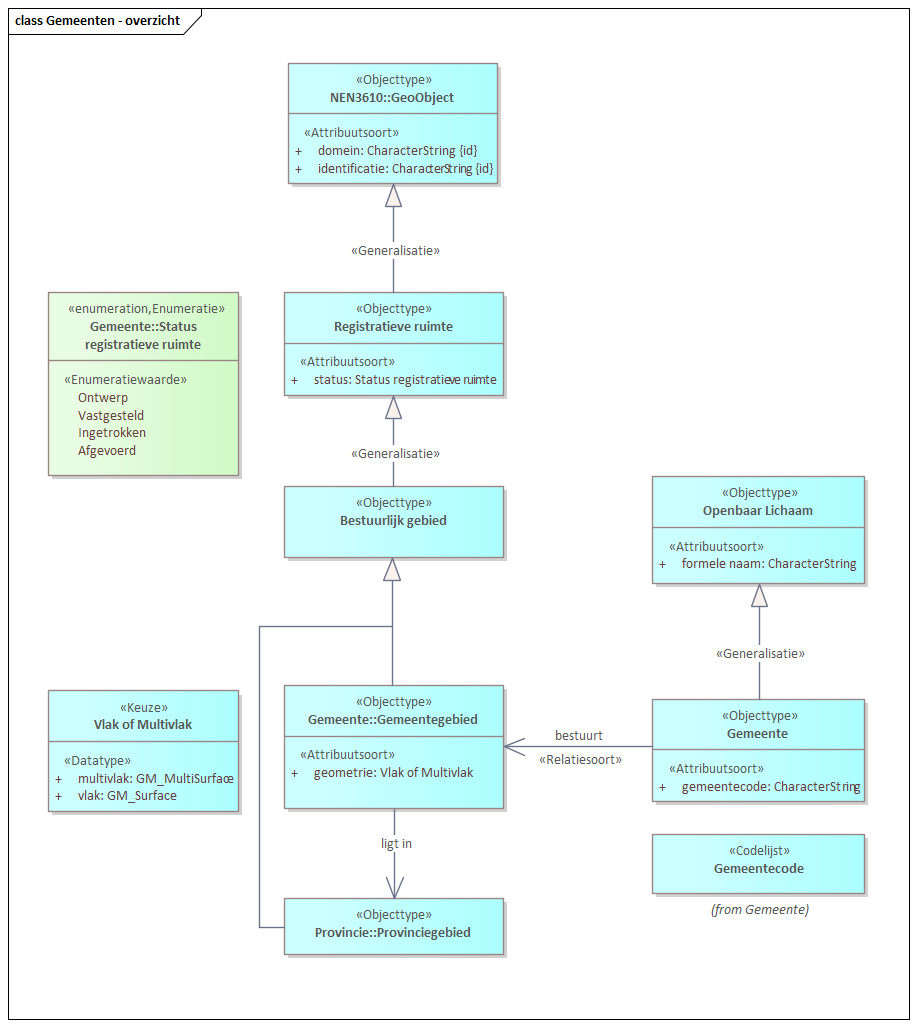
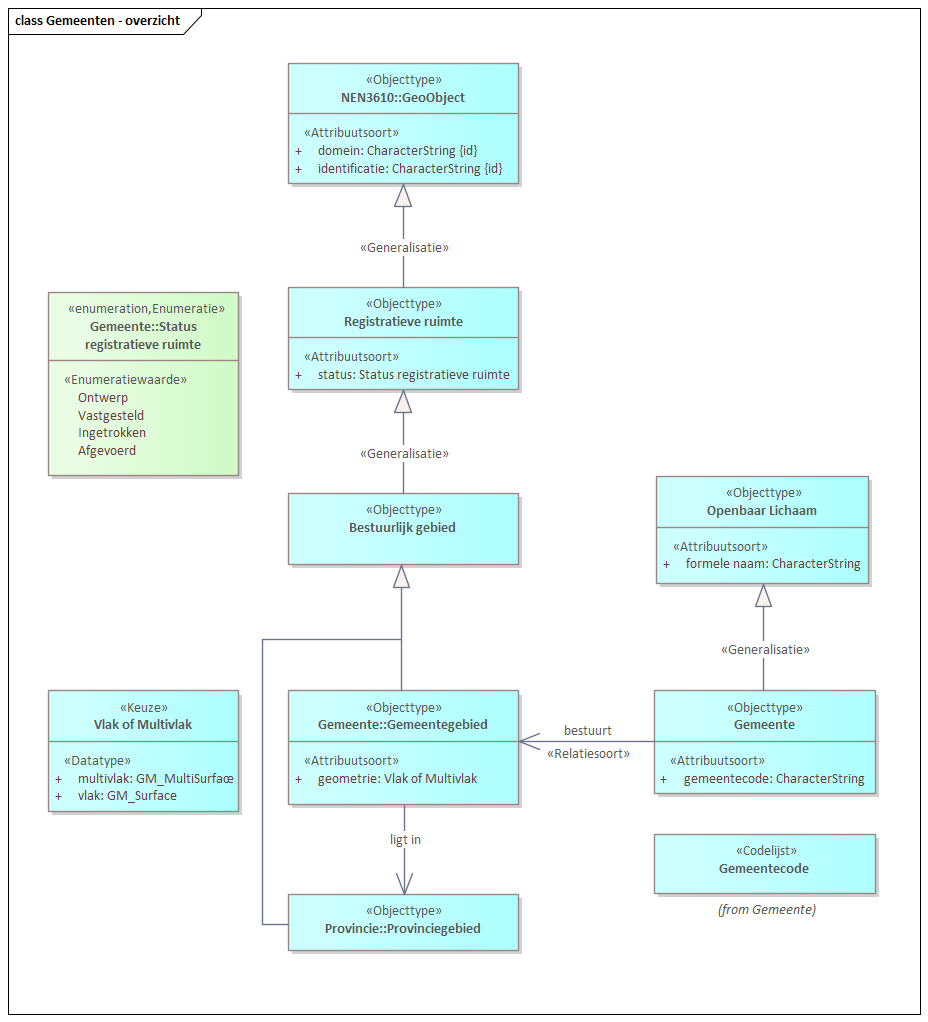
MIMCM-IMSOR-CM-1.0.0-0-20210512-20220330-150509

diff --git a/data/IMSOR-CM-cat.respec.html b/data/IMSOR-CM-cat.respec.html
@@ -1,7 +1,7 @@
 
 <!DOCTYPE HTML><section id="cat" class="normative">
    <h2>Gegevensdefinitie</h2>
-   <!--MIMCM-IMSOR-CM-1.0.0-0-20210512-20220330-144323 imvertor 1.65.4--><a class="anchor" id="global_package_NEN3610"></a><section id="global_package_NEN3610">
+   <!--MIMCM-IMSOR-CM-1.0.0-0-20210512-20220330-150509 imvertor 1.65.4--><a class="anchor" id="global_package_NEN3610"></a><section id="global_package_NEN3610">
       <h3>Domein   NEN3610</h3>
       <section id="">
          <h4>Objecttypen   </h4>
@@ -1253,7 +1253,7 @@
       <h3>Domein   Bestuurlijke Gebieden</h3>
       <section id="EAID_1ADC0868_BDA7_4793_9671_6EAD9ECD8B08">
          <h4>   Gemeenten - overzicht</h4>
-         <div class="imageinfo overview"><img src="../data/Images/EAID_1ADC0868_BDA7_4793_9671_6EAD9ECD8B08.png" usemap="#imagemap-EAID_1ADC0868_BDA7_4793_9671_6EAD9ECD8B08" alt="Diagram &#xA;                        &#xA;                     "><map name="imagemap-EAID_1ADC0868_BDA7_4793_9671_6EAD9ECD8B08"><area shape="rect" alt="GeoObject" coords="288,63,498,184" href="#graph_EAID_5F28982A_92F2_4338_97FC_9C1AA451286E"><area shape="rect" alt="Vlak of Multivlak" coords="48,690,239,812" href="#graph_EAID_CB47144F_F944_4037_8ECB_EA023608F3FD"><area shape="rect" alt="Gemeente" coords="652,699,865,802" href="#graph_EAID_834A86E2_38DD_46e9_8A3B_75EB0C312F6E"><area shape="rect" alt="Openbaar Lichaam" coords="652,476,865,584" href="#graph_EAID_C60CE19D_EF1D_4c45_BD31_D4E19145AAA8"><area shape="rect" alt="Registratieve ruimte" coords="284,292,504,396" href="#graph_EAID_F4EA655E_C546_437f_9846_89189D849130"><area shape="rect" alt="Status registratieve ruimte" coords="48,292,239,476" href="#graph_EAID_4C474734_5C1D_4344_8776_29ACD288EEB8"><area shape="rect" alt="Provinciegebied" coords="284,898,504,955" href="#graph_EAID_3C488FE1_753E_40b8_9C2F_2E521B28DC18"><area shape="rect" alt="Gemeentecode" coords="652,834,865,894" href="#graph_EAID_B145E3D6_1735_49a4_A9DF_4901299925E2"><area shape="rect" alt="Gemeentegebied" coords="284,685,504,809" href="#graph_EAID_80F9B049_91FE_4978_B5B1_FDCE5AD8F0A9"><area shape="rect" alt="Bestuurlijk gebied" coords="284,486,504,558" href="#graph_EAID_CE4A19B0_E8ED_4517_A5F2_DACF596D2421"></map><p><b>Gemeenten - overzicht</b></p>
+         <div class="imageinfo overview"><img src="data/Images/EAID_1ADC0868_BDA7_4793_9671_6EAD9ECD8B08.png" usemap="#imagemap-EAID_1ADC0868_BDA7_4793_9671_6EAD9ECD8B08" alt="Diagram &#xA;                        &#xA;                     "><map name="imagemap-EAID_1ADC0868_BDA7_4793_9671_6EAD9ECD8B08"><area shape="rect" alt="GeoObject" coords="288,63,519,184" href="#graph_EAID_5F28982A_92F2_4338_97FC_9C1AA451286E"><area shape="rect" alt="Vlak of Multivlak" coords="48,690,239,812" href="#graph_EAID_CB47144F_F944_4037_8ECB_EA023608F3FD"><area shape="rect" alt="Gemeente" coords="654,690,876,794" href="#graph_EAID_834A86E2_38DD_46e9_8A3B_75EB0C312F6E"><area shape="rect" alt="Openbaar Lichaam" coords="656,476,869,584" href="#graph_EAID_C60CE19D_EF1D_4c45_BD31_D4E19145AAA8"><area shape="rect" alt="Registratieve ruimte" coords="288,287,519,390" href="#graph_EAID_F4EA655E_C546_437f_9846_89189D849130"><area shape="rect" alt="Status registratieve ruimte" coords="48,292,239,476" href="#graph_EAID_4C474734_5C1D_4344_8776_29ACD288EEB8"><area shape="rect" alt="Provinciegebied" coords="288,894,519,951" href="#graph_EAID_3C488FE1_753E_40b8_9C2F_2E521B28DC18"><area shape="rect" alt="Gemeentecode" coords="654,834,876,894" href="#graph_EAID_B145E3D6_1735_49a4_A9DF_4901299925E2"><area shape="rect" alt="Gemeentegebied" coords="288,690,519,805" href="#graph_EAID_80F9B049_91FE_4978_B5B1_FDCE5AD8F0A9"><area shape="rect" alt="Bestuurlijk gebied" coords="288,493,519,565" href="#graph_EAID_CE4A19B0_E8ED_4517_A5F2_DACF596D2421"></map><p><b>Gemeenten - overzicht</b></p>
          </div>
       </section>
       <section id="">
@@ -2102,7 +2102,7 @@
 </section>
 <section id="lis" class="normative">
    <h2>Inhoud van waardenlijsten</h2>
-   <!--MIMCM-IMSOR-CM-1.0.0-0-20210512-20220330-144323 imvertor 1.65.4-->
+   <!--MIMCM-IMSOR-CM-1.0.0-0-20210512-20220330-150509 imvertor 1.65.4-->
    <section id="">
       <h3>Referentielijst inhoud   </h3>
    </section>
